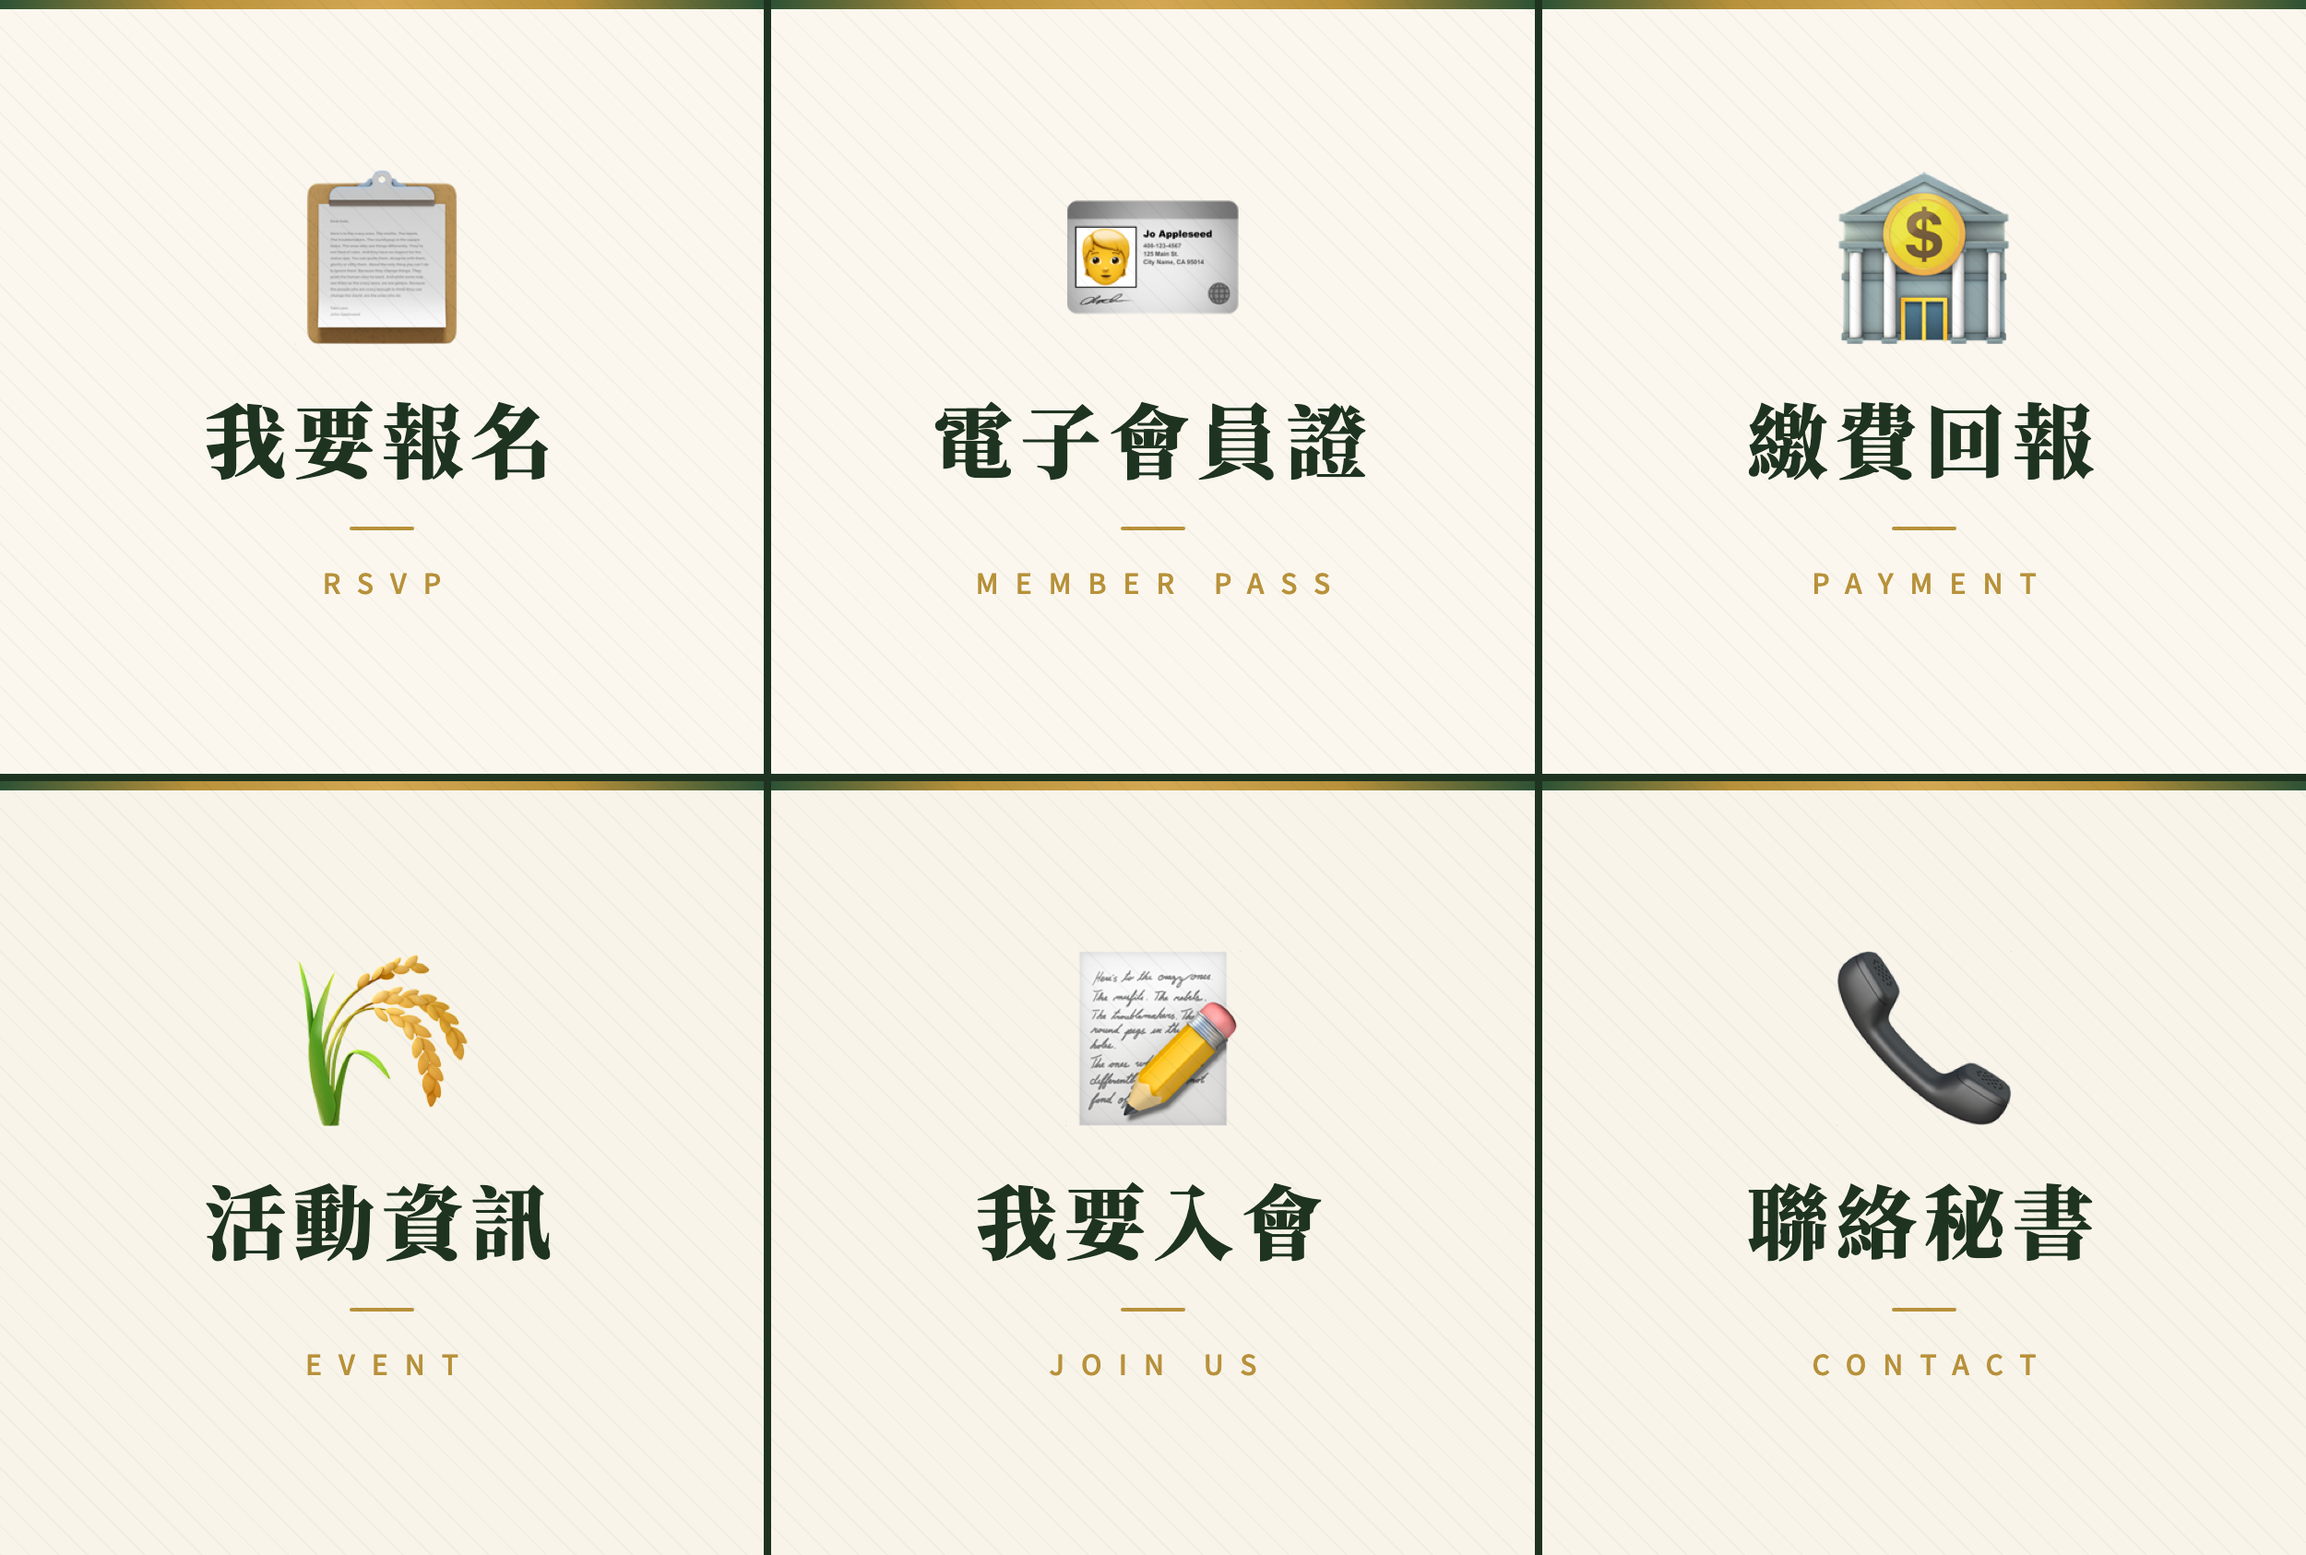
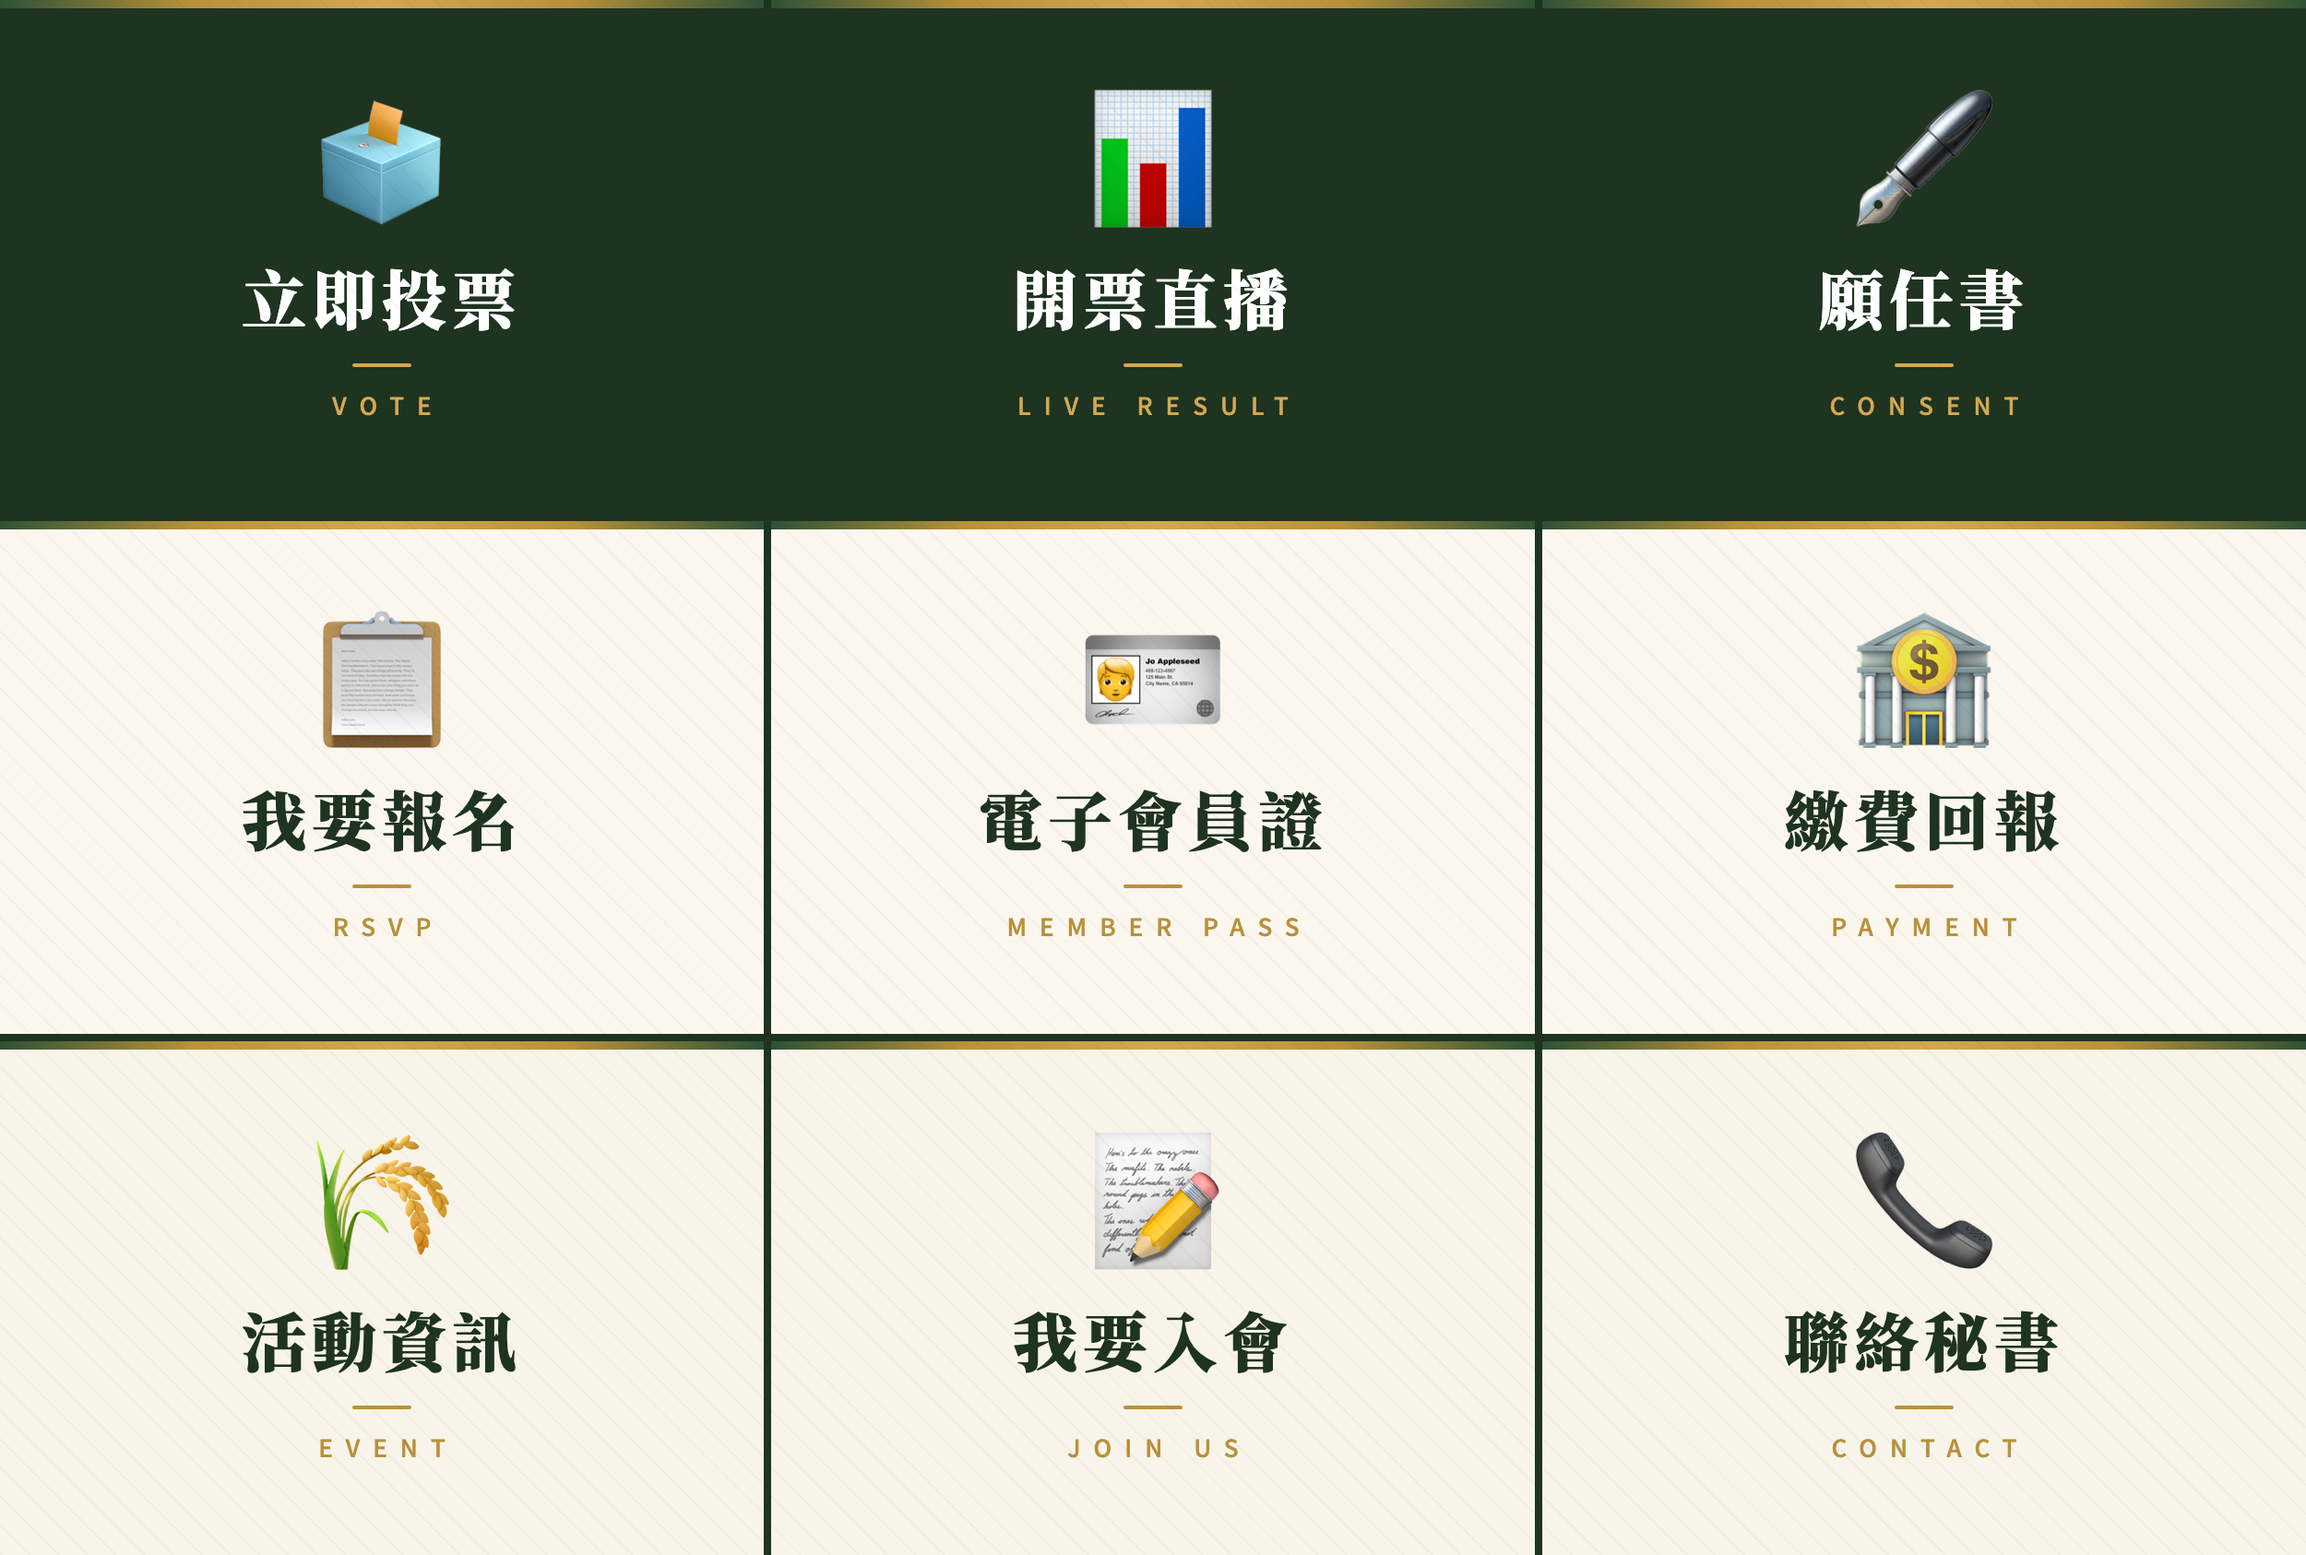
feat: LINE Rich Menu 改 3×3 九鍵，新增投票/開票直播/願任書；richmenu-deploy 函式用 LINE token secret 自動部署

diff --git a/assets/richmenu/member.html b/assets/richmenu/member.html
@@ -7,25 +7,32 @@
 *{margin:0;padding:0;box-sizing:border-box;}
 :root{--green-deep:#1e3320;--green-mid:#2d5235;--gold:#b8913a;--gold-light:#d4a853;--cream:#f8f4ea;--ink:#1a1a14;--green-light:#5a8a60;}
 html,body{width:2500px;height:1686px;overflow:hidden;}
-.grid{width:2500px;height:1686px;display:grid;grid-template-columns:repeat(3,1fr);grid-template-rows:repeat(2,1fr);gap:8px;background:var(--green-deep);}
-.cell{background:var(--cream);display:flex;flex-direction:column;align-items:center;justify-content:center;gap:34px;position:relative;overflow:hidden;}
-.cell.svc{background:#fbf7ee;}
-.cell::before{content:'';position:absolute;top:0;left:0;right:0;height:10px;background:linear-gradient(90deg,var(--green-mid),var(--gold),var(--gold-light),var(--gold),var(--green-mid));}
+.grid{width:2500px;height:1686px;display:grid;grid-template-columns:repeat(3,1fr);grid-template-rows:repeat(3,1fr);gap:8px;background:var(--green-deep);}
+.cell{background:#fbf7ee;display:flex;flex-direction:column;align-items:center;justify-content:center;gap:22px;position:relative;overflow:hidden;}
+.cell.vote{background:var(--green-deep);}
+.cell.info{background:var(--cream);}
+.cell::before{content:'';position:absolute;top:0;left:0;right:0;height:9px;background:linear-gradient(90deg,var(--green-mid),var(--gold),var(--gold-light),var(--gold),var(--green-mid));}
 .cell::after{content:'';position:absolute;inset:0;opacity:0.035;background-image:repeating-linear-gradient(45deg,var(--green-deep) 0,var(--green-deep) 2px,transparent 2px,transparent 22px);pointer-events:none;}
-.ic{font-size:190px;line-height:1;}
-.tw{font-family:'Noto Serif TC',serif;font-size:88px;font-weight:900;color:var(--green-deep);letter-spacing:8px;}
-.en{font-family:'Noto Sans TC',sans-serif;font-size:30px;font-weight:500;letter-spacing:18px;color:var(--gold);text-indent:18px;}
-.line{width:70px;height:4px;background:var(--gold);border-radius:2px;}
+.ic{font-size:150px;line-height:1;}
+.tw{font-family:'Noto Serif TC',serif;font-size:70px;font-weight:900;color:var(--green-deep);letter-spacing:6px;}
+.en{font-family:'Noto Sans TC',sans-serif;font-size:26px;font-weight:500;letter-spacing:14px;color:var(--gold);text-indent:14px;}
+.line{width:64px;height:4px;background:var(--gold);border-radius:2px;}
+.cell.vote .tw{color:#fff;}
+.cell.vote .en{color:var(--gold-light);}
+.cell.vote .line{background:var(--gold-light);}
 </style>
 </head>
 <body>
 <div class="grid">
+  <div class="cell vote"><div class="ic">🗳</div><div class="tw">立即投票</div><div class="line"></div><div class="en">VOTE</div></div>
+  <div class="cell vote"><div class="ic">📊</div><div class="tw">開票直播</div><div class="line"></div><div class="en">LIVE RESULT</div></div>
+  <div class="cell vote"><div class="ic">🖋</div><div class="tw">願任書</div><div class="line"></div><div class="en">CONSENT</div></div>
   <div class="cell svc"><div class="ic">📋</div><div class="tw">我要報名</div><div class="line"></div><div class="en">RSVP</div></div>
   <div class="cell svc"><div class="ic">🪪</div><div class="tw">電子會員證</div><div class="line"></div><div class="en">MEMBER PASS</div></div>
   <div class="cell svc"><div class="ic">🏦</div><div class="tw">繳費回報</div><div class="line"></div><div class="en">PAYMENT</div></div>
-  <div class="cell"><div class="ic">🌾</div><div class="tw">活動資訊</div><div class="line"></div><div class="en">EVENT</div></div>
-  <div class="cell"><div class="ic">📝</div><div class="tw">我要入會</div><div class="line"></div><div class="en">JOIN US</div></div>
-  <div class="cell"><div class="ic">📞</div><div class="tw">聯絡秘書</div><div class="line"></div><div class="en">CONTACT</div></div>
+  <div class="cell info"><div class="ic">🌾</div><div class="tw">活動資訊</div><div class="line"></div><div class="en">EVENT</div></div>
+  <div class="cell info"><div class="ic">📝</div><div class="tw">我要入會</div><div class="line"></div><div class="en">JOIN US</div></div>
+  <div class="cell info"><div class="ic">📞</div><div class="tw">聯絡秘書</div><div class="line"></div><div class="en">CONTACT</div></div>
 </div>
 </body>
 </html>

diff --git a/supabase/functions/richmenu-deploy/index.ts b/supabase/functions/richmenu-deploy/index.ts
@@ -1,0 +1,63 @@
+// TADA Rich Menu 部署 —— 用 LINE_CHANNEL_ACCESS_TOKEN（secret）在伺服器端註冊 Rich Menu
+// 前端只傳「管理密碼 SHA-256」＋選單 JSON＋圖片 base64；LINE token 永不外洩到瀏覽器。
+// 步驟：建立 richmenu → 上傳背景圖 → 設為全體預設 → 清除舊選單。
+//
+// 部署：SUPABASE_ACCESS_TOKEN=sbp_... supabase functions deploy richmenu-deploy --use-api --no-verify-jwt --project-ref ldjugtfxtxnpvkqvjxew
+
+import { serve } from "https://deno.land/std@0.203.0/http/server.ts";
+
+const TOKEN = Deno.env.get("LINE_CHANNEL_ACCESS_TOKEN")!;
[1 lines of base64/hex data omitted]
+const API = "https://api.line.me/v2/bot";
+const API_DATA = "https://api-data.line.me/v2/bot";
+const CORS = {
+  "Access-Control-Allow-Origin": "*",
+  "Access-Control-Allow-Headers": "authorization, x-client-info, apikey, content-type",
+  "Access-Control-Allow-Methods": "POST, OPTIONS",
+};
+const json = (o: unknown, s = 200) => new Response(JSON.stringify(o), { status: s, headers: { ...CORS, "Content-Type": "application/json" } });
+const auth = () => ({ Authorization: `Bearer ${TOKEN}` });
+
+serve(async (req) => {
+  if (req.method === "OPTIONS") return new Response("ok", { headers: CORS });
+  try {
+    const { pw_hash, richmenu, image_b64 } = await req.json();
+    if (pw_hash !== ADMIN_HASH) return json({ error: "unauthorized" }, 403);
+    if (!richmenu || !image_b64) return json({ error: "missing_payload" }, 400);
+
+    // 現有選單（稍後清除）
+    const listRes = await fetch(`${API}/richmenu/list`, { headers: auth() });
+    const oldIds: string[] = ((await listRes.json()).richmenus || []).map((m: { richMenuId: string }) => m.richMenuId);
+
+    // 1. 建立
+    const createRes = await fetch(`${API}/richmenu`, {
+      method: "POST", headers: { ...auth(), "Content-Type": "application/json" }, body: JSON.stringify(richmenu),
+    });
+    const created = await createRes.json();
+    if (!created.richMenuId) return json({ error: "create_failed", detail: created }, 500);
+    const id = created.richMenuId;
+
+    // 2. 上傳背景圖（base64 → bytes）
+    const bytes = Uint8Array.from(atob(image_b64), (c) => c.charCodeAt(0));
+    const upRes = await fetch(`${API_DATA}/richmenu/${id}/content`, {
+      method: "POST", headers: { ...auth(), "Content-Type": "image/png" }, body: bytes,
+    });
+    if (upRes.status !== 200) return json({ error: "upload_failed", status: upRes.status, detail: await upRes.text() }, 500);
+
+    // 3. 設為全體預設
+    const defRes = await fetch(`${API}/user/all/richmenu/${id}`, { method: "POST", headers: { ...auth(), "Content-Length": "0" } });
+    if (defRes.status !== 200) return json({ error: "setdefault_failed", status: defRes.status, detail: await defRes.text() }, 500);
+
+    // 4. 清除舊選單
+    const deleted: string[] = [];
+    for (const oid of oldIds) {
+      if (oid === id) continue;
+      const d = await fetch(`${API}/richmenu/${oid}`, { method: "DELETE", headers: auth() });
+      if (d.status === 200) deleted.push(oid);
+    }
+
+    return json({ ok: true, richMenuId: id, deleted });
+  } catch (e) {
+    return json({ error: String(e) }, 500);
+  }
+});
